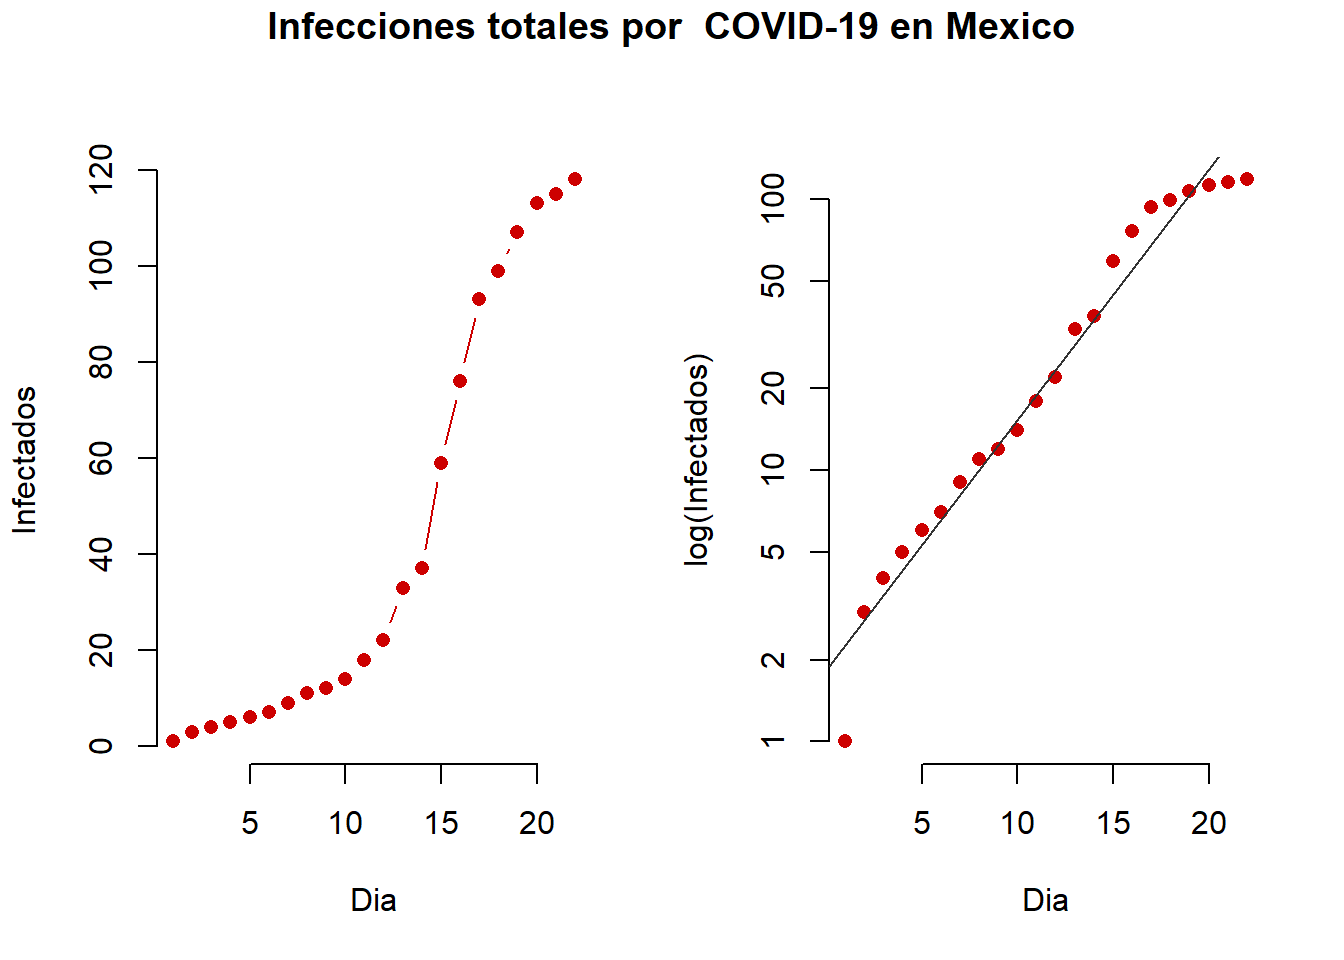
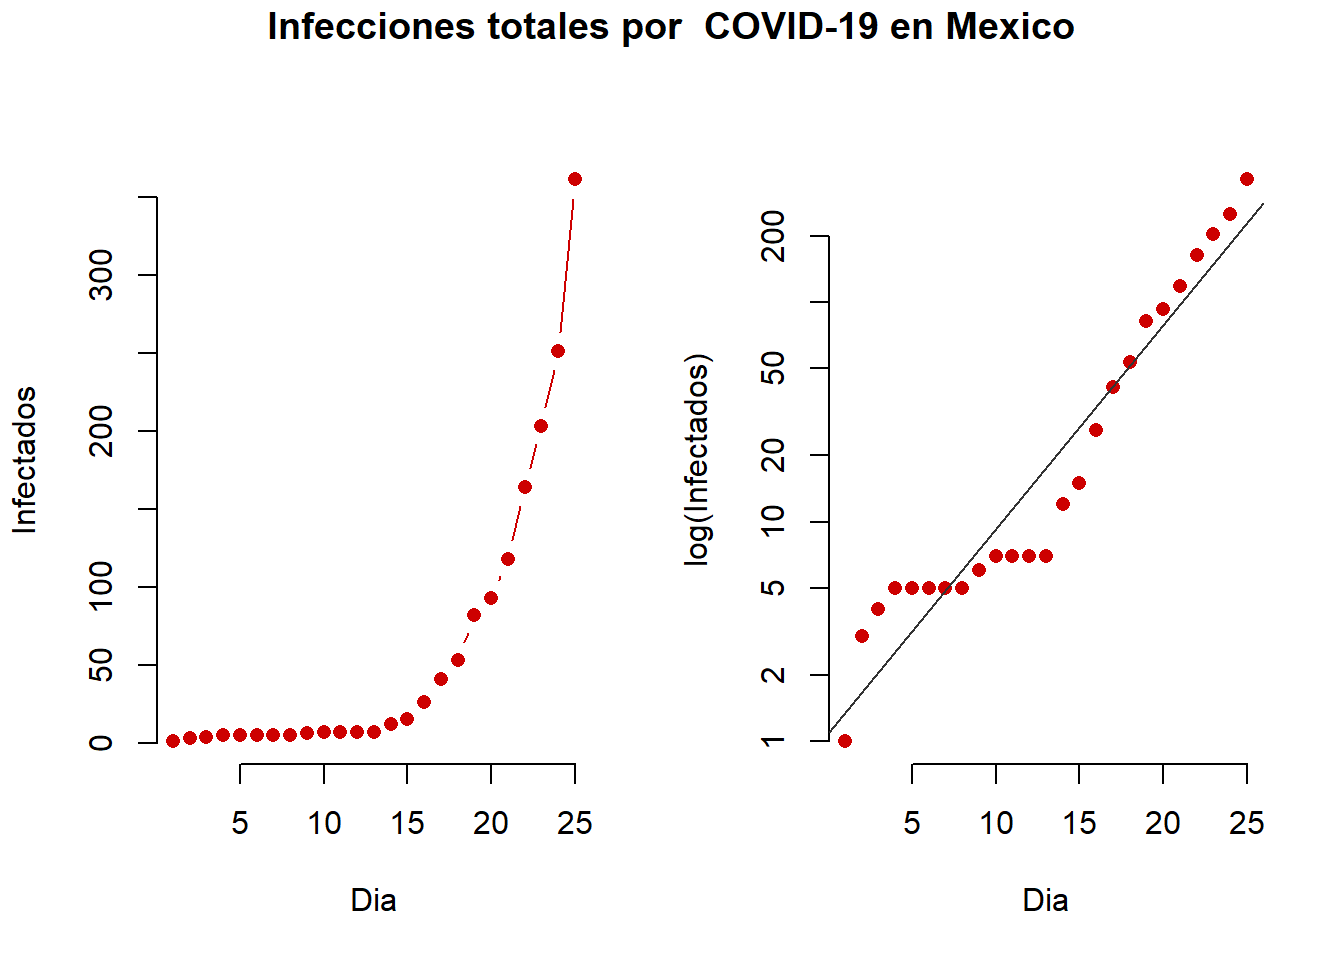
Updated COVID19Mx

diff --git a/Estimacion_R0.html b/Estimacion_R0.html
@@ -333,25 +333,110 @@ $(document).ready(function () {
 <p>Aprovechando la atencion que esta teniendo el coronavirus, usare los datos officiales reportados por secretaria de salud para crear un modelo en el cual podamos obtener informacion como la tasa de transmission y el tamaño esperado de la epidemia.</p>
 <p>Si observamos la siguiente grafica, del lado izquierdo veremos el numero cumulativo de casos infectados por COVID-19 empezando desde el dia 02 de febrero del 2020, cuando se reporto el primer caso en Mexico. podemos observar como existe un crecimiento exponencial en el numero de infectados. Si hacemos una transformacion logaritmica a este numero de casos, veremos que hay una buena relacion lineal entre el dia y el numero de casos. Idealmente nos gustaria ver que todos los puntos siguieran la linea recta y asi podriamos predecir con mejor certeza como se comportara la enfermedad.</p>
 <p><img src="Estimacion_R0_files/figure-html/unnamed-chunk-3-1.png" width="672" /></p>
+<p>Para que nuestro modelo tenga buena convergencia, los puntos del graficod e la derecha deben de seguir la linea recta, esto quiere decir que existe una relacion exponencial en el numero de casos y la longitud de la epidemia. En nuestro ejemplo podemos ver que existe cierto patron lineal, pero no del todo.</p>
 <p>Usando estas relaciones, podemos usar un modelo que es muy conocido en epidemiologia por su simplicidad. El tipo de modelo que usaremos se llama SIR (Susceptibles <span class="math inline">\(\rightarrow\)</span> Infectados<span class="math inline">\(\rightarrow\)</span> Recuperados), en el cual dividimos nuestra poblacion en compartimentos y asumimos que existe una tasa de contactos e infectividad que puede representar bien a nuestra poblacion.</p>
 <p><span class="math display">\[\frac{dS}{dt}=-\frac{\beta IS}{N} \\
  \frac{dI}{dt} = \frac{\beta IS}{N} - \gamma I \\
  \frac{dR}{dt} = \gamma I\]</span></p>
-<p>Las ecuaciones anteriores simplemente describen la tasa en la que los individuos pasan de un compartimento a otro. Uno de los retos mas grandes de este modelo es escoger los parametros de <span class="math inline">\(\beta\)</span> y <span class="math inline">\(\gamma\)</span> que representan la tasa en la que se transmite la enfermedad a la poblacion y la tasa en la que se recupera.<br />
+<p>Las ecuaciones anteriores simplemente describen la tasa en la que los individuos pasan de un compartimento a otro. En donde <span class="math inline">\(S\)</span> representa el compartimento de la poblacion susceptible, <span class="math inline">\(I\)</span> los infectados y <span class="math inline">\(R\)</span> recuperados. En las ecuaciones diferenciales definimos un intervalo de tiempo y la ecuacion se resolvera a ese intervalo. <span class="math inline">\(\frac{dS}{dt}\)</span> representa el cambio en el numero de susceptibles en cada paso de nuestro modelo en el que se mueven del compartimento <span class="math inline">\(S \rightarrow I\)</span> <span class="math inline">\(\frac{\beta IS}{N}\)</span> numero de individuos y del compartimento <span class="math inline">\(I\rightarrow R\)</span> <span class="math inline">\(\gamma I\)</span> numero de individuos.</p>
+<p>Uno de los retos mas grandes de este modelo es escoger los parametros de <span class="math inline">\(\beta\)</span> y <span class="math inline">\(\gamma\)</span> que representan la tasa en la que se transmite la enfermedad a la poblacion y la tasa en la que se recupera.<br />
 Usando los datos de el numero de casos, podemos usar optimizadores, como por ejemplo uno que minimize la suma de los cuadrados (Ecuacion a continuacion), para encontrar los parametros de <span class="math inline">\(\beta\)</span> y <span class="math inline">\(\gamma\)</span> para nuestro modelo que tengan un comportamiento mas parecido a los datos observados.</p>
 <p><span class="math display">\[RSS(\beta, \gamma) = \sum_t\left(I(t)-\hat{I}(t)\right)^2\]</span> En donde <span class="math inline">\(I(t)\)</span> es el numero de casos observados y <span class="math inline">\(\hat{I}(t)\)</span> es el numero de casso que nuestro modelo predice.<br />
 Una vez que encontremos esos valores para nuestros parametros <span class="math inline">\(\beta\)</span> y <span class="math inline">\(\gamma\)</span>, podemos usarlos en un modelo de simulacion y realizar predicciones sobre la epidemia.</p>
-<p>Usando los datos proporcionados por secretaria de salud logramos una <strong>Buena Convergencia del Modelo</strong>, y los parametros estimados son: <span class="math inline">\(\beta=\)</span> 0.6211862, <span class="math inline">\(\gamma=\)</span> 0.378814 resultando en un <span class="math inline">\(R_0\)</span> de 1.6398186. <span class="math inline">\(R_0\)</span> es un valor utilizado frequentemente para describir el impacto de una enfermedad en la poblacion. Un <span class="math inline">\(R_0 &gt; 1\)</span> significa que la enfermedad causara una epidemia en la poblacion y un <span class="math inline">\(R_0 &lt; 0\)</span> significa que no habra epidemia.</p>
+<p>Usando los datos proporcionados por secretaria de salud logramos una <strong>Buena Convergencia del Modelo</strong>, y los parametros estimados son: <span class="math inline">\(\beta=\)</span> 0.6213356, <span class="math inline">\(\gamma=\)</span> 0.3786644 resultando en un <span class="math inline">\(R_0\)</span> de 1.640861. <span class="math inline">\(R_0\)</span> es un valor utilizado frequentemente para describir el impacto de una enfermedad en la poblacion. Un <span class="math inline">\(R_0 &gt; 1\)</span> significa que la enfermedad causara una epidemia en la poblacion y un <span class="math inline">\(R_0 &lt; 0\)</span> significa que no habra epidemia.</p>
 <p>A continuacion usamos esos parametros estimados para nuestras ecuaciones por un periodo de 150 dias.<br />
 En el grafico del lado derecho vemos el la poblacion para cada uno de nuestros compartimentos a traves del periodo de tiempo que simulamos, y del lado derecho vemos el logaritmos de los valores de cada compartimento, Los asteriscos rojos en el grafico del lado derecho representan los casos reales reportados por secretaria de salud, esto nos ayuda a visualizar que tan bien nuestro modelo se ajusta a los datos reales.</p>
 <p><img src="Estimacion_R0_files/figure-html/unnamed-chunk-5-1.png" width="1344" /></p>
-<p>Finalmente podemos obtener una extrapolacion de la epidemia. De acuerdo a la extrapolacion, el dia esperado del pico de la epidemia es el dia <strong>65</strong> despues de haber empezado la epidemia con un estimado de 1.140996510^{6} infectados, lo cual puede que sea no muy realista por algunos aspectos que comentaremos a continuacion.</p>
+<p>Finalmente podemos obtener una extrapolacion de la epidemia. De acuerdo a la extrapolacion, el dia esperado del pico de la epidemia es el dia <strong>84</strong> despues de haber empezado la epidemia con un estimado de 1.143974310^{8} infectados, lo cual puede que sea no muy realista por algunos aspectos que comentaremos a continuacion.</p>
 <div id="consideraciones-para-este-tipo-de-modelos." class="section level3">
 <h3>Consideraciones para este tipo de modelos.</h3>
 <p>Este tipo de modelos asume que existe una probabilidad de contactar con un infectado para toda la poblacion, lo cual no es algo cierto en muchos casos. La transmision de enfermedades a nivel individual, frequentemente se ve influida por la red de contactos de cada persona y sabemos que la estructura de esa red de contactos depende de caracteristicas individuales de cada persona, tales como su profesion o ubicacion geografica, algo que en este modelo no estamos representando.<br />
 Otro aspecto importante que no consideramos en este modelo es la reaccion de la gente ante la epidemia. Sabemos que esto puede disminuir notoriamente el numero de casos y la duracion de la epidemia. He ahi la importancia de la reduccion de contactos entre las personas.</p>
 <p>Si deseas ver mas sobre la distribucion espacial de la epidemia, puedes ver el mapa que he hecho siguiendo este <a href="https://jpablo91.shinyapps.io/COVID19_Mx/">LINK</a></p>
+<p><img src="Images/COVID19.jpg" style="width:50%" align="center"></p>
 <!-- <a href="https://jpablo91.shinyapps.io/COVID19_Mx/" title="LINK">LINK</a> -->
+</div>
+<div id="apendice" class="section level1">
+<h1>Apendice</h1>
+<pre class="r"><code># Librerias que usamos
+library(dplyr); library(deSolve)
+#Opciones para correr el documento (No es necesario correr esta linea)
+knitr::opts_chunk$set(warning = F, message = F, echo = F)
+#### Obtener los datos de la epidemia, se tiene que tener instalado el paquete devtools y nCovid2019
+
+# install.packages(&quot;devtools&quot;)
+# devtools::install_github(&quot;GuangchuangYu/nCov2019&quot;)
+
+COVID &lt;- nCov2019::load_nCov2019(source = &quot;github&quot;, lang = &quot;en&quot;)
+COVID &lt;- COVID[&#39;global&#39;]
+# Obtener el numero de infectados para Mexico
+Infected &lt;- COVID %&gt;%
+  filter(country == &quot;Mexico&quot;) %&gt;%
+  pull(cum_confirm)
+
+# Poblacion actual de Mexico
+N &lt;- 1289327530
+
+# Dias desde el comienzo
+Day &lt;- 1:(length(Infected))
+#####
+##Obtener grafico de infectados totales y en escala logaritmica
+par(mfrow = c(1, 2), bty = &#39;n&#39;)
+plot(Day, Infected, type =&quot;b&quot;, pch = 16, col = &quot;red3&quot;, xlab = &quot;Dia&quot;, ylab = &quot;Infectados&quot;, bty = &quot;n&quot;)
+plot(Day, Infected, log = &quot;y&quot;, pch = 16, col = &quot;red3&quot;, xlab = &quot;Dia&quot;, ylab = &quot;log(Infectados)&quot;, bty = &#39;n&#39;)
+abline(lm(log10(Infected) ~ Day), col = &quot;grey20&quot;)
+title(&quot;Infecciones totales por  COVID-19 en Mexico&quot;, outer = TRUE, line = -1)
+################################### 
+## Funciones que usaremos
+# Funcion para las ecuaciones diferenciales
+SIR &lt;- function(time, state, parameters) {
+  par &lt;- as.list(c(state, parameters))
+  with(par, {
+    dS &lt;- -beta/N * I * S
+    dI &lt;- beta/N * I * S - gamma * I
+    dR &lt;- gamma * I
+    list(c(dS, dI, dR))
+    })
+}
+## FUnction para la optimizacion del modelo
+RSS &lt;- function(parameters) {
+  names(parameters) &lt;- c(&quot;beta&quot;, &quot;gamma&quot;)
+  out &lt;- ode(y = init, times = Day, func = SIR, parms = parameters)
+  fit &lt;- out[ , 3]
+  sum((Infected - fit)^2)
+}
+# Funcion para determinar si existe buena convergencia del modelo
+CNV &lt;- function(x){
+  if(x == &quot;CONVERGENCE: REL_REDUCTION_OF_F &lt;= FACTR*EPSMCH&quot;){
+    return(&quot;Buena Convergencia del Modelo&quot;)
+  } else{
+    return(&quot;Modelo fallo a converger&quot;)
+  }
+}
+###################################
+# Condiciones iniciales del modelo
+init &lt;- c(S = N-Infected[1], 
+          I = Infected[1], 
+          R = 0)
+# Optimizacion del modelo
+Opt &lt;- optim(c(0.5, 0.5), RSS, method = &quot;L-BFGS-B&quot;, lower = c(0, 0), upper = c(1, 1))
+# Nombrar los parametros obtenidos en la optimizacion
+Opt_par &lt;- setNames(Opt$par, c(&quot;beta&quot;, &quot;gamma&quot;))
+#### Graficos del resultado del modelo
+t &lt;- 1:180 # time in days
+# Correr el modelo con los parametros obtenidos
+fit &lt;- data.frame(ode(y = init, times = t, func = SIR, parms = Opt_par))
+# Crear paleta de colores
+col &lt;- c(&quot;darkgreen&quot;, &quot;darkred&quot;, &quot;darkblue&quot;)
+## Graficar los datos
+par(mfrow = c(1, 2), bty = &#39;n&#39;)
+plot(I~time, data = fit, type = &quot;l&quot;, xlab = &quot;Dia&quot;, ylab = &quot;Poblacion&quot;, lwd = 2, lty = 1, col = &quot;darkred&quot;)
+plot(I~time, data = fit, type = &quot;l&quot;, xlab = &quot;Dia&quot;, ylab = &quot;Poblacion&quot;, lwd = 2, lty = 1, col = &quot;darkred&quot;, log = &quot;y&quot;)
+points(Day, Infected, pch = 8, col = &quot;red&quot;, cex = 1.5)
+
+legend(&quot;topright&quot;, c(&quot;Susceptibles&quot;, &quot;Infectados&quot;, &quot;Recuperados&quot;), lty = 1, lwd = 2, col = col)
+title(&quot;Modelo de ecuaciones diferenciales para COVID-19 en Mexico&quot;, outer = TRUE, line = -1)
+df &lt;- fit[fit$I == max(fit$I), &quot;I&quot;, drop = FALSE] # height of pandemic</code></pre>
 </div>
 
 
